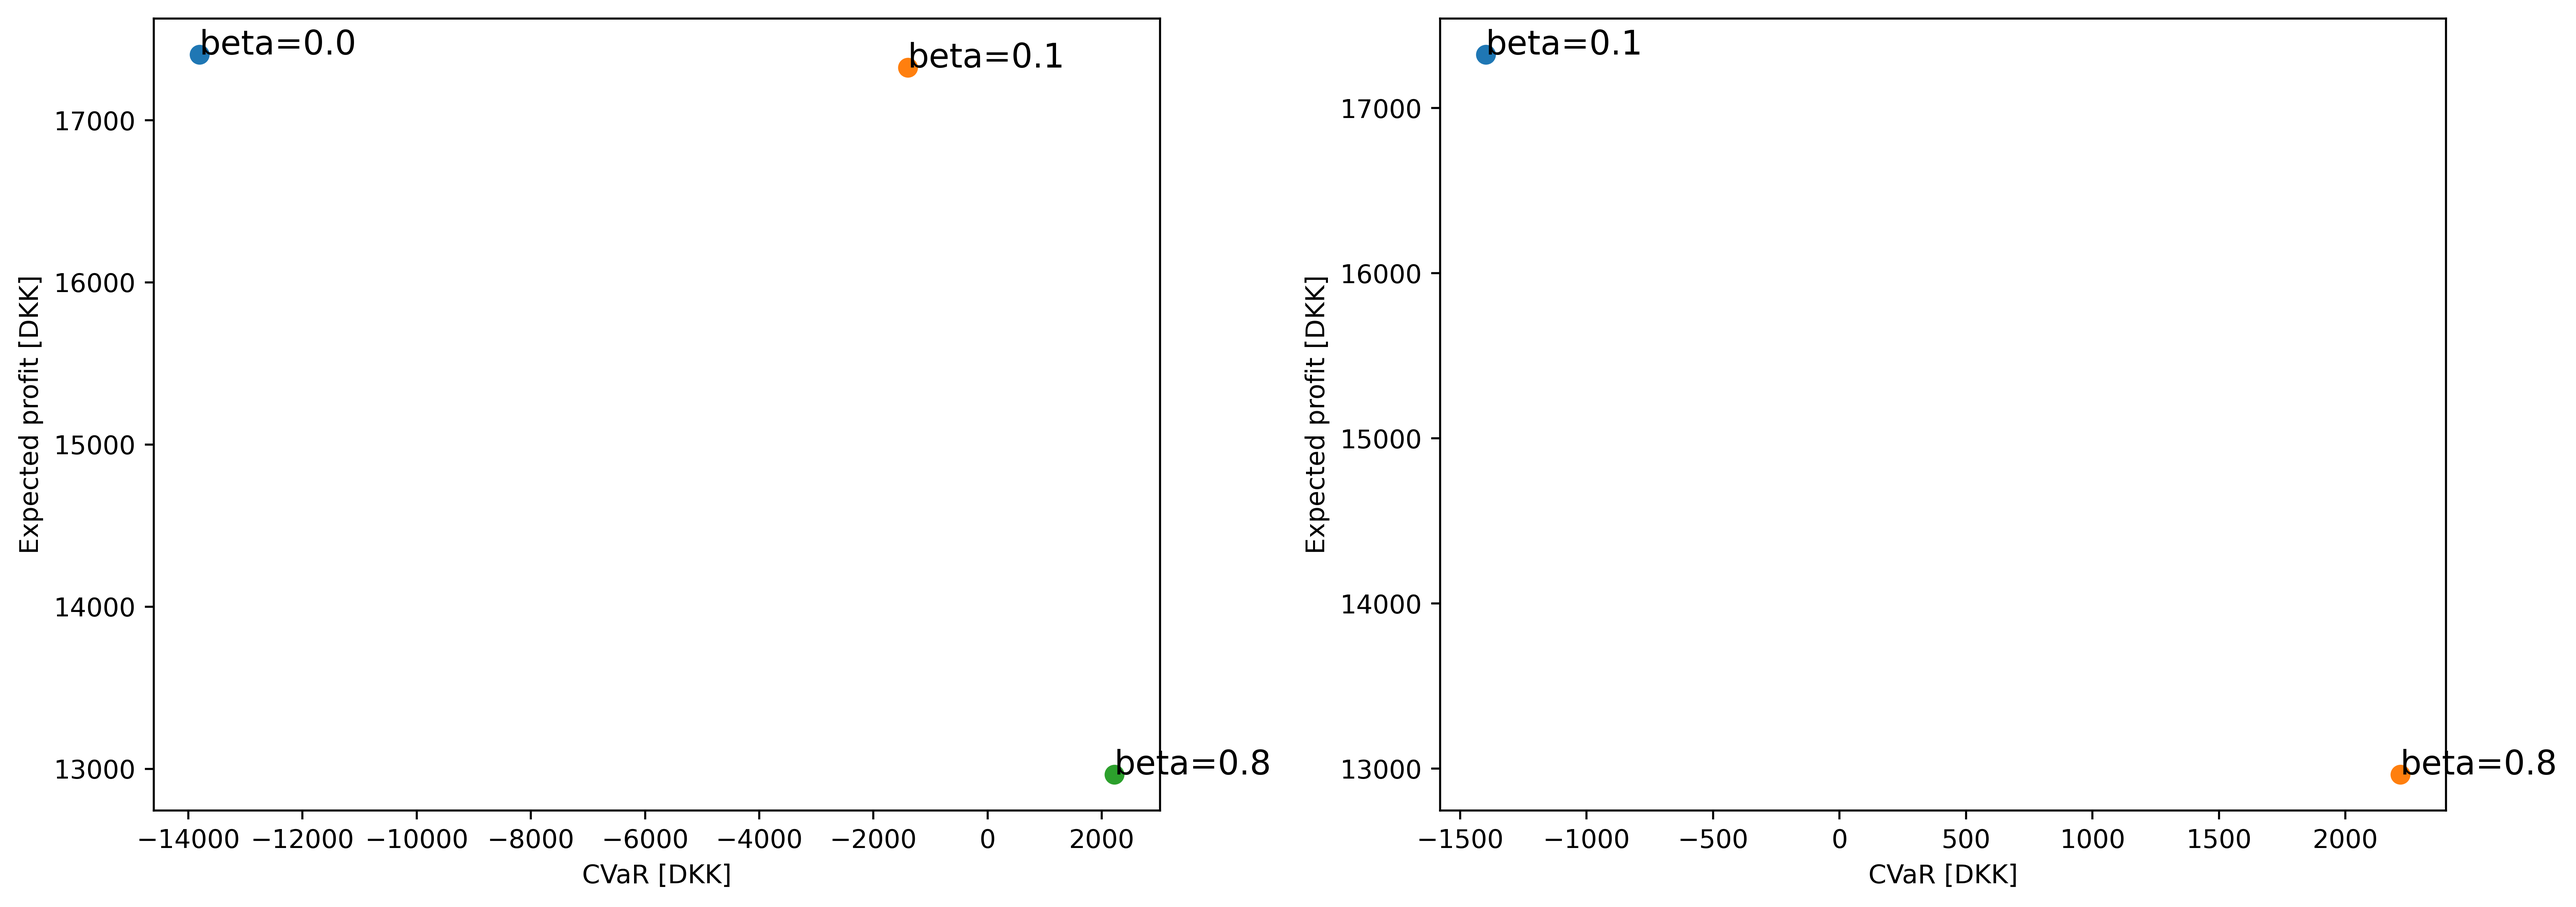
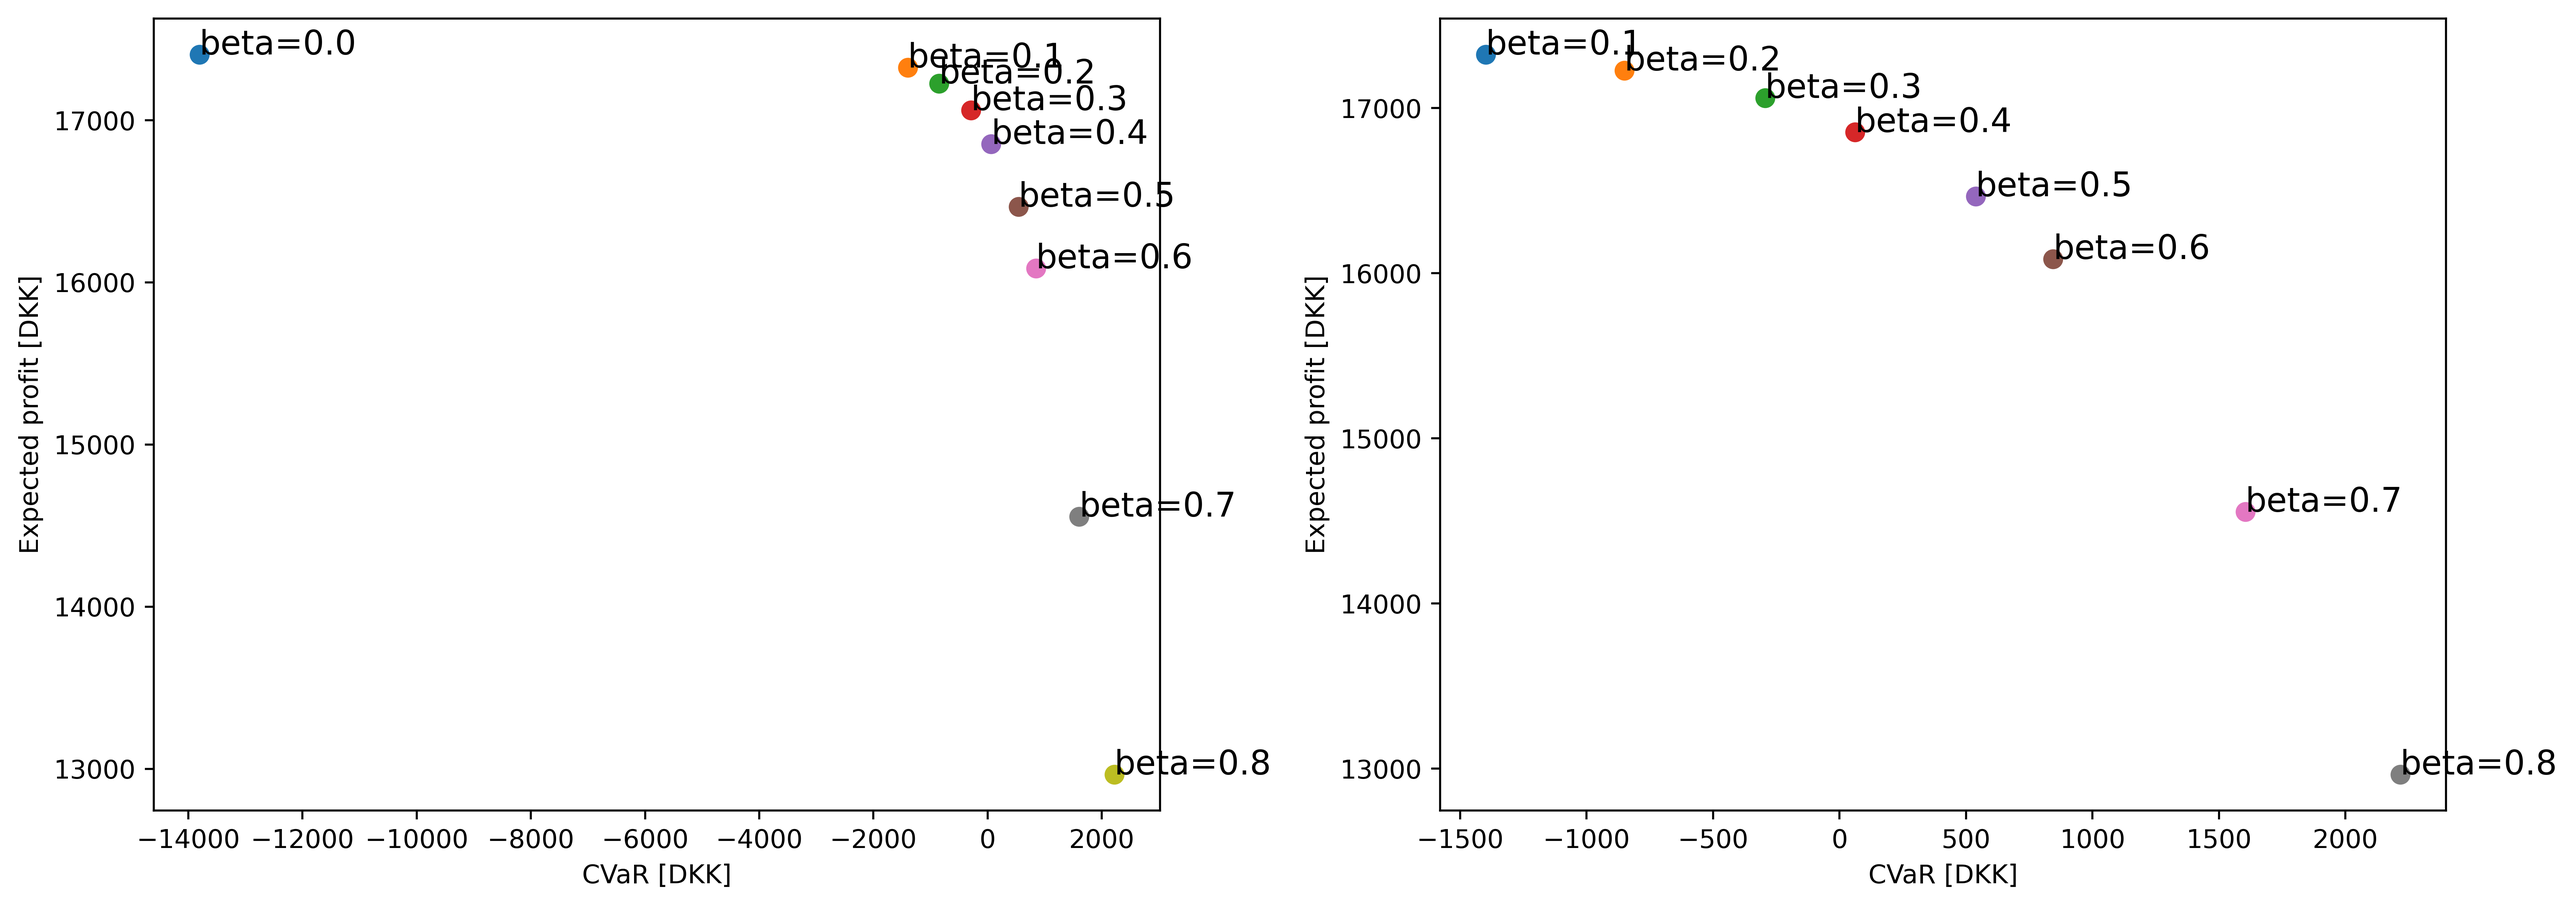
fixed the color scheme on 'decision' plot for V4

diff --git a/V4_aFRR_stratbal_risk.py b/V4_aFRR_stratbal_risk.py
@@ -59,7 +59,7 @@ beta = 0 # Level of risk-averseness of wind farm owner
 # initiate dictionaries used to save the results for different levels of risk
 # betas = np.round( np.linspace(0,1,11), 2)
 betas = np.round( np.linspace(0,0.8,9), 2) # Selected range
-betas = np.array([0.0,0.1,0.8])
+# betas = np.array([0.0,0.1,0.8])
 
 DA_offer = {f'{beta}': float for beta in betas}
 RES_offer = {f'{beta}': float for beta in betas}
@@ -366,40 +366,32 @@ plt.savefig('plots/V4/Step4_V4_profit_hists', dpi=500, bbox_inches='tight')
 plt.show()
 #####
 
+import matplotlib.cm as cm
+
+cols = cm.tab10.colors
 
 fig,ax = plt.subplots(figsize=(6,4),dpi=500)
-ax2=ax.twinx()
 
-cols = ['b', 'r']
-markers=['s','x','*','d','p','+']
+# cols = ['b', 'r']
+# cols2 = ['b', 'y', 'g']
+markers=['s','o','x','d','p','+']
 for i,beta in enumerate(betas[[0,1,-1]]):
-    ax.plot(TT, DA_offer[f'{beta}'], label=f'beta={beta}', marker=markers[i], color=cols[0])
-    ax2.plot(TT, RES_offer[f'{beta}'], label=f'beta={beta}', marker=markers[i], color=cols[1], alpha=.5)
+    ax.plot(TT, DA_offer[f'{beta}'], label=r'$\beta$'+f'={beta}', marker=markers[i], color=cols[i])
+    # ax.plot(TT, RES_offer[f'{beta}'], label=f'beta={beta}', marker=markers[i], color=cols2[i], alpha=.5)
 
 ax.set_xlabel('Hour of the day [h]')
 
-ax2.spines['left'].set_color(cols[0])
-ax.tick_params(axis='y', colors=cols[0])
-ax.yaxis.label.set_color(cols[0])
-
-ax2.tick_params(axis='y', colors=cols[1])
-ax2.spines['right'].set_color(cols[1])
-ax2.yaxis.label.set_color(cols[1])
-
-ax.set_ylabel('DA offer $-$ Power [MW]')
-ax2.set_ylabel('RES offer $-$ Power [MW]')
+ax.set_ylabel('Offer (DA and RES) $-$ Power [MW]')
 
 lines,labels = ax.get_legend_handles_labels()
-lines2,labels2= ax2.get_legend_handles_labels()
 
 ### Used to explain the behaviour - can be removed when only showing the decisions
-ax3 = ax.twinx()
-ax3.plot([np.mean(lambda_DA[:,t]) + np.mean(lambda_RES[:,t]) - np.mean(lambda_B[:,t]) for t in range(T)], label='E[P] 1MW DA', color='k', alpha=.5)
-ax3.set_ylabel('Revenue - Expected profit of 1 MW DA offer [DKK]')
-ax3.axhline(y=0, alpha=1, color='k', linestyle='dashed')
-ax3.spines.right.set_position(("axes", 1.12))
-lines3,labels3 = ax3.get_legend_handles_labels()
-plt.legend(lines+lines2+lines3,labels+labels2+labels3,loc=0)
+ax2=ax.twinx()
+ax2.plot([np.mean(lambda_DA[:,t]) + np.mean(lambda_RES[:,t]) - np.mean(lambda_B[:,t]) for t in range(T)], label='E[P] 1MW DA', linestyle='dashed', color=cols[7], alpha=1.0)
+ax2.set_ylabel('Expected profit of 1 MW DA over-offer [DKK]')
+ax2.axhline(y=0, alpha=.8, color=cols[7], linestyle='dotted')
+lines2,labels2 = ax2.get_legend_handles_labels()
+plt.legend(lines+lines2,labels+labels2,loc=0)
 ### 
 
 # plt.legend(lines+lines2,labels+labels2,loc=0)
@@ -408,8 +400,8 @@ plt.show()
 
 fig,ax = plt.subplots(figsize=(6,4),dpi=500)
 ax2=ax.twinx()
-cols = ['b', 'r']
-markers=['s','x','*','d','p','+']
+# cols = ['b', 'r']
+# markers=['s','x','*','d','p','+']
 for i,beta in enumerate(betas[[0,1,-1]]):
     ax.plot(TT, alpha_offer_RES[f'{beta}'], label=f'beta={beta}', marker=markers[i], color=cols[0])
     ax2.plot(TT, beta_offer_RES[f'{beta}'], label=f'beta={beta}', marker=markers[i], color=cols[1], alpha=.5)

diff --git a/load_data.py b/load_data.py
@@ -34,7 +34,7 @@ lambda_RES = df_aFRR[df_aFRR['PriceArea']=='DK2']['aFRR_DownCapPriceDKK'] # aFRR
 #gamma_RES = (gamma_RES > 0).astype(int) # Makes the activation binary
 # "aFRR Downward regulation purchased (MW)" -- not used because we assume that they always buy
 
-print(df_spot['HourDK'].iloc[[0,-1]])
-print(df_balancing['HourDK'].iloc[[0,-1]])
-print(df_aFRR['HourDK'].iloc[[0,-1]])
-print(df_wind['HourDK'].iloc[[0,-1]])
+# print(df_spot['HourDK'].iloc[[0,-1]])
+# print(df_balancing['HourDK'].iloc[[0,-1]])
+# print(df_aFRR['HourDK'].iloc[[0,-1]])
+# print(df_wind['HourDK'].iloc[[0,-1]])
